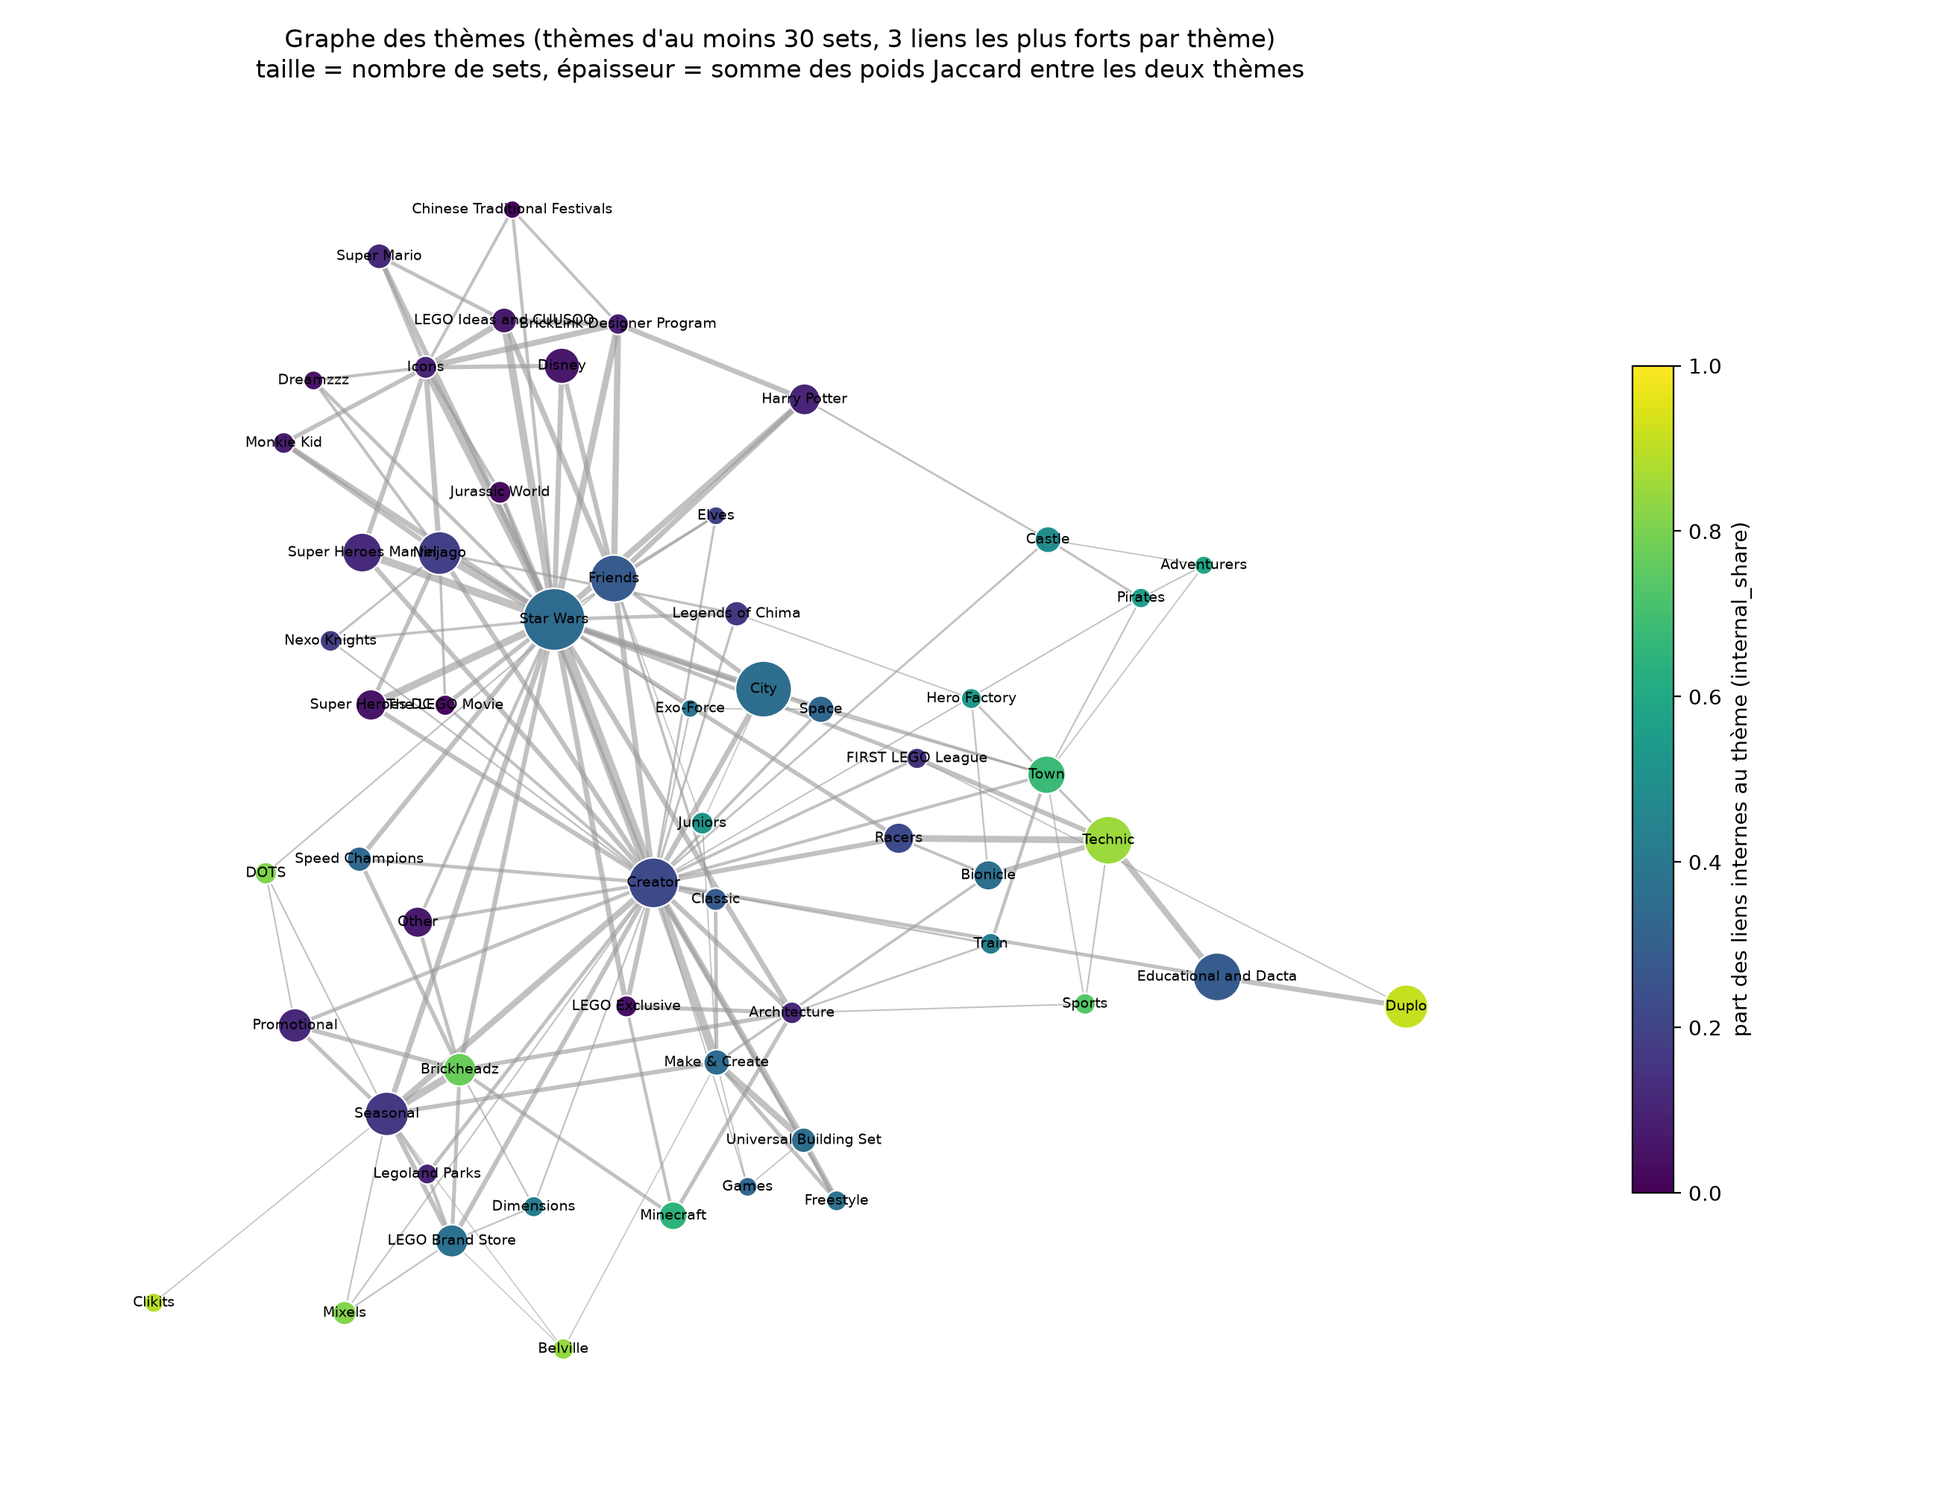
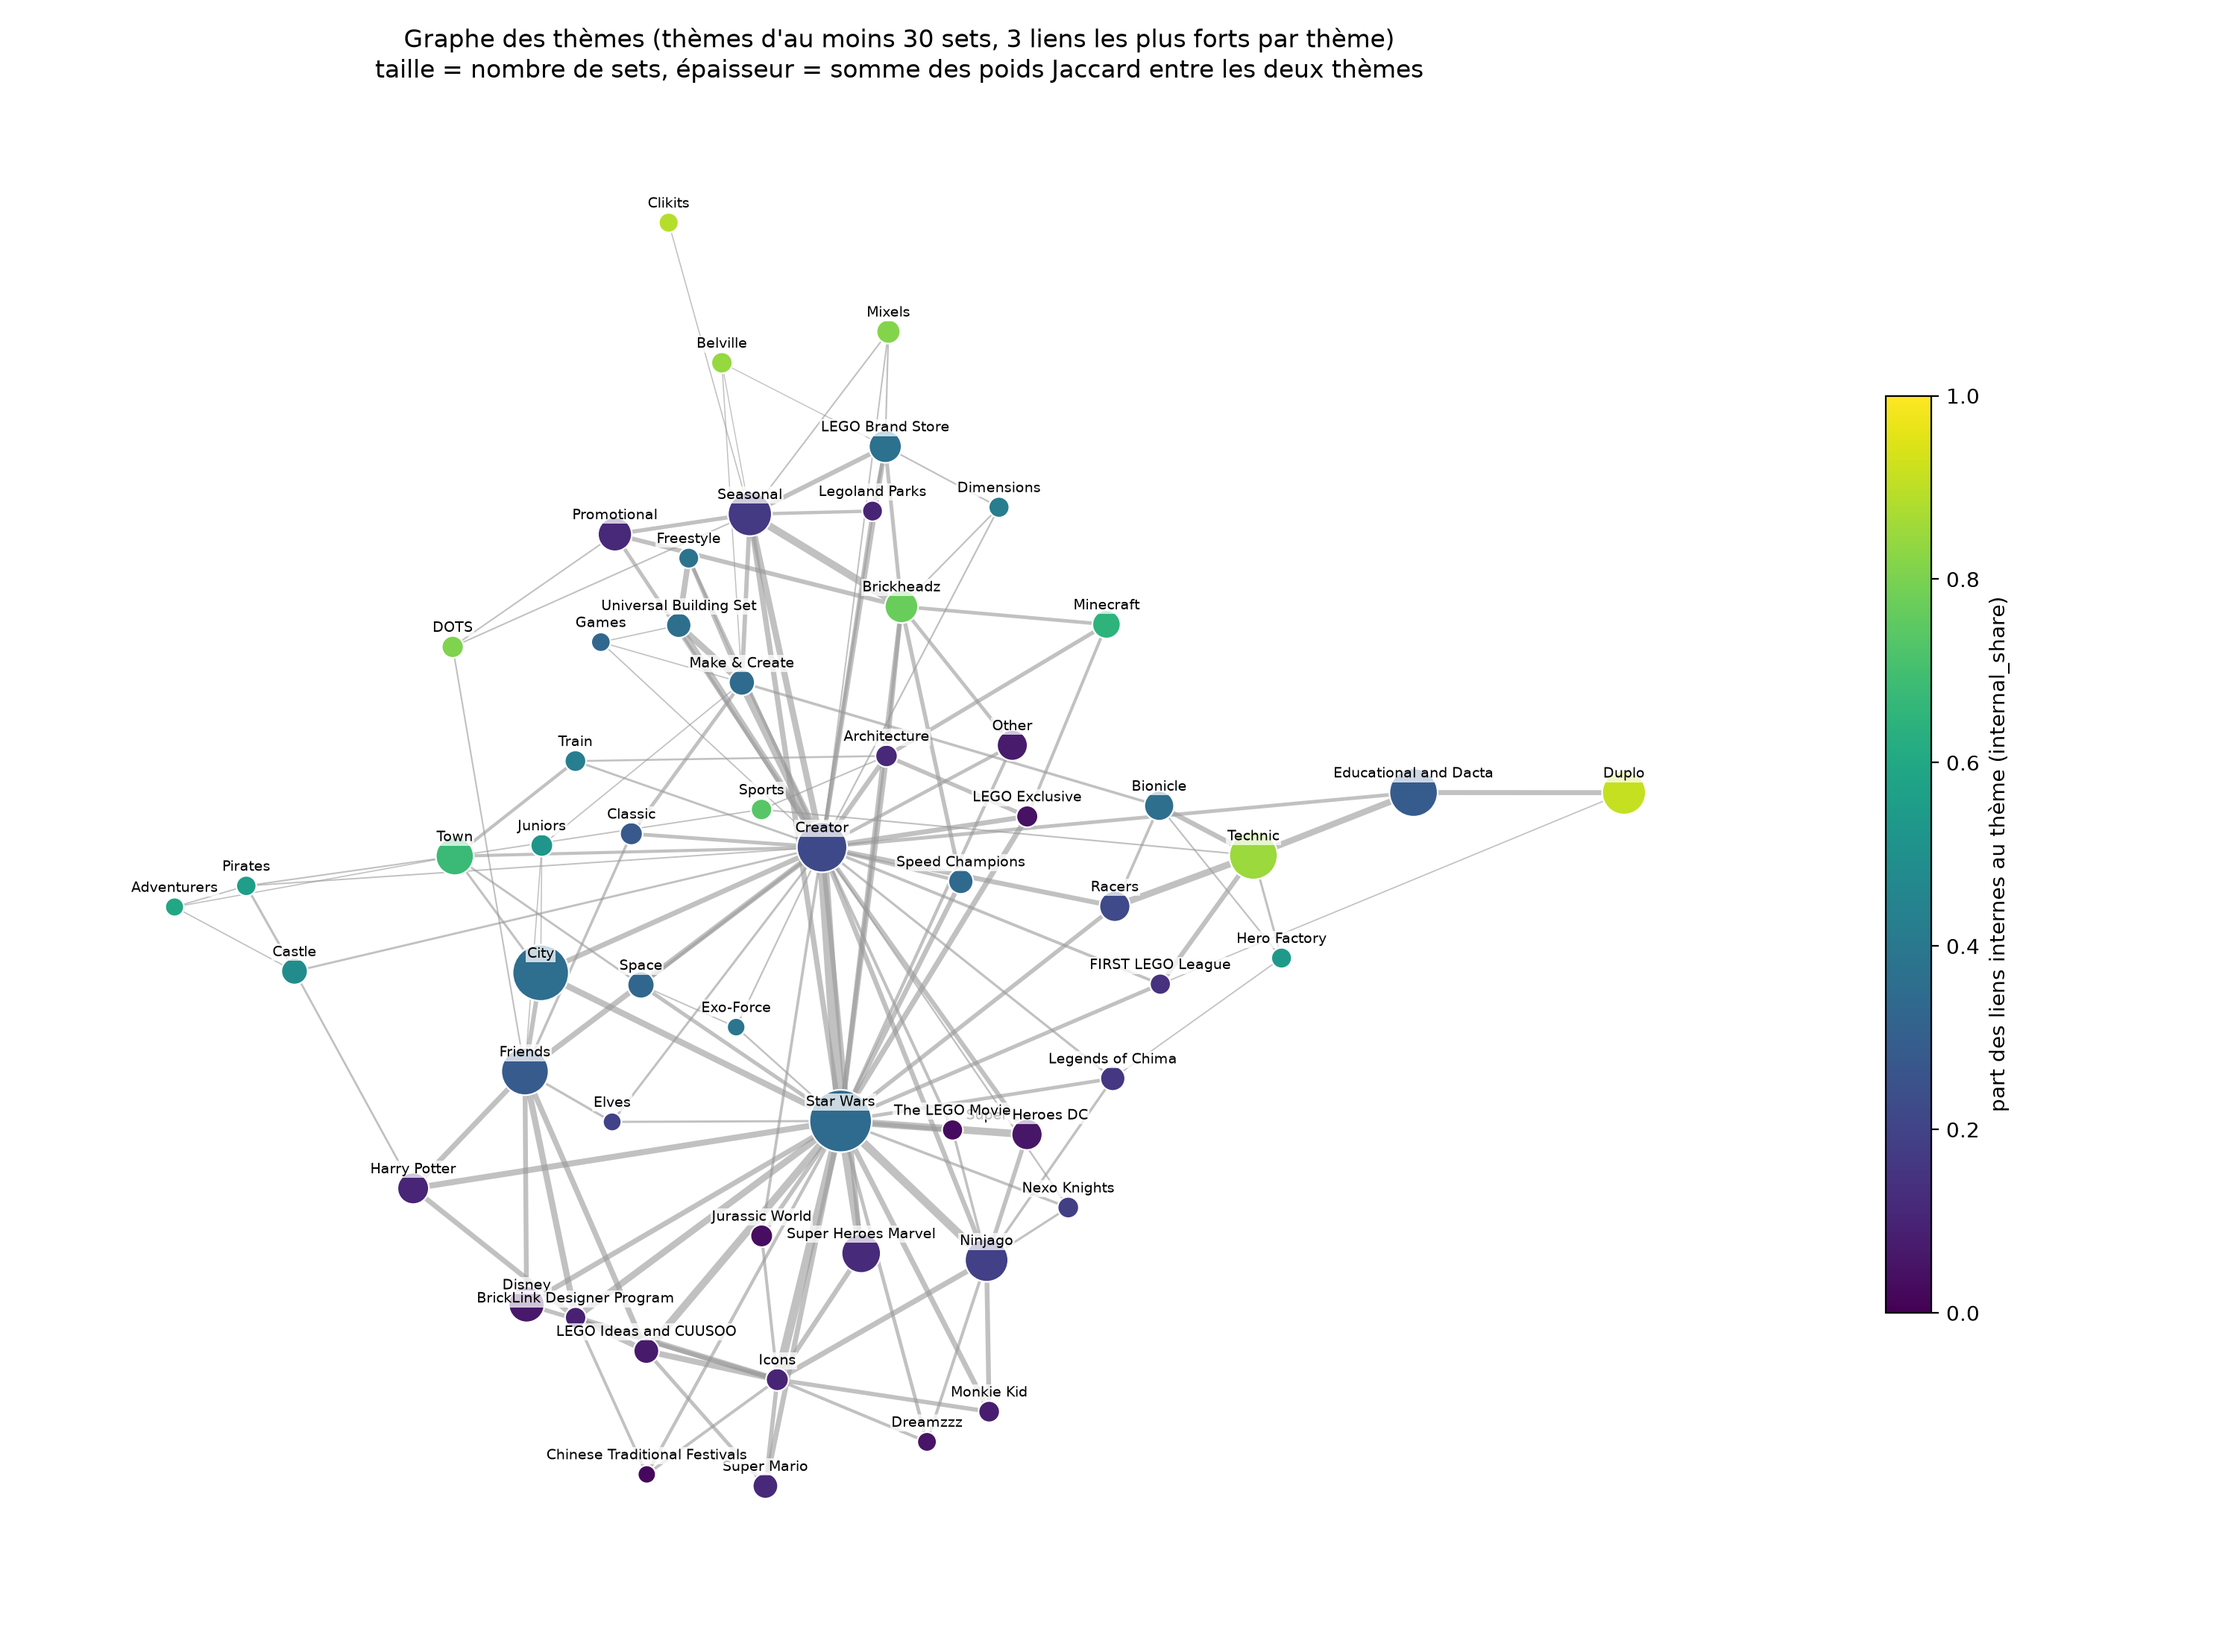
fix: CSV reproductibles et étiquettes lisibles sur le graphe des thèmes

diff --git a/lego_graph/extensions.py b/lego_graph/extensions.py
@@ -256,7 +256,7 @@ def theme_graph_figure(T: nx.Graph, path, min_sets: int = 30, per_node: int = 3,
     # Un thème sans aucun lien serait rejeté au bord de la figure : on le nomme dans le titre.
     isolated = sorted(nx.isolates(B))
     B.remove_nodes_from(isolated)
-    fig, ax = plt.subplots(figsize=(13, 10))
+    fig, ax = plt.subplots(figsize=(15, 11))
     if B.number_of_nodes() == 0:
         ax.text(0.5, 0.5, "aucun thème assez grand", ha="center")
         fig.savefig(path, dpi=200)
@@ -267,7 +267,7 @@ def theme_graph_figure(T: nx.Graph, path, min_sets: int = 30, per_node: int = 3,
     # liés entre eux se rapprochent sans que les gros thèmes écrasent tout.
     for _, _, d in B.edges(data=True):
         d["layout_weight"] = float(np.log1p(d["lift"]))
-    pos = nx.spring_layout(B, weight="layout_weight", k=1.6 / np.sqrt(B.number_of_nodes()),
+    pos = nx.spring_layout(B, weight="layout_weight", k=2.6 / np.sqrt(B.number_of_nodes()),
                            iterations=300, seed=seed)
 
     sizes = np.array([B.nodes[t]["n_sets"] for t in B.nodes])
@@ -280,7 +280,10 @@ def theme_graph_figure(T: nx.Graph, path, min_sets: int = 30, per_node: int = 3,
         B, pos, ax=ax, node_size=40 + 1.2 * sizes, node_color=colors,
         cmap="viridis", vmin=0, vmax=1, edgecolors="white", linewidths=0.8,
     )
-    nx.draw_networkx_labels(B, pos, ax=ax, font_size=7)
+    # Étiquette au-dessus du nœud, sur fond blanc : lisible même quand deux noms se touchent.
+    label_pos = {t: (x, y + 0.025) for t, (x, y) in pos.items()}
+    nx.draw_networkx_labels(B, label_pos, ax=ax, font_size=7,
+                            bbox=dict(facecolor="white", edgecolor="none", alpha=0.75, pad=0.6))
     fig.colorbar(nodes, ax=ax, shrink=0.6, label="part des liens internes au thème (internal_share)")
     ax.set_title(
         f"Graphe des thèmes (thèmes d'au moins {min_sets} sets, {per_node} liens les plus forts par thème)\n"

diff --git a/run_extensions.py b/run_extensions.py
@@ -76,7 +76,9 @@ def main() -> None:
     log("Louvain à plusieurs résolutions et label propagation...")
     seeds = [args.seed + i for i in range(args.n_seeds)]
     comparison = extensions.compare_communities(G, resolutions=args.resolutions, seeds=seeds, log=log)
-    comparison.to_csv(results / "communities_comparison.csv", index=False)
+    # Les durées changent à chaque lancement : on les garde pour le journal, pas pour le CSV versionné.
+    csv = comparison.drop(columns="seconds").astype({"seed": "Int64"})
+    csv.to_csv(results / "communities_comparison.csv", index=False)
 
     # 2. Graphe des thèmes ----------------------------------------------
     log("Graphe des thèmes...")
